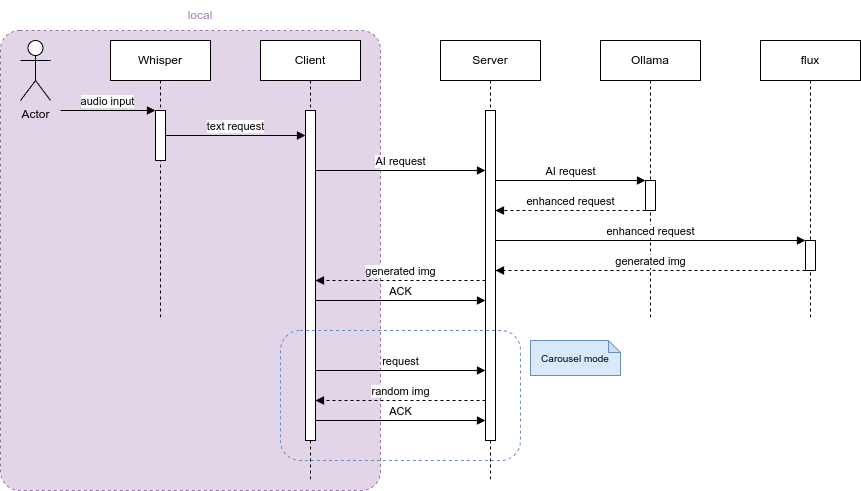
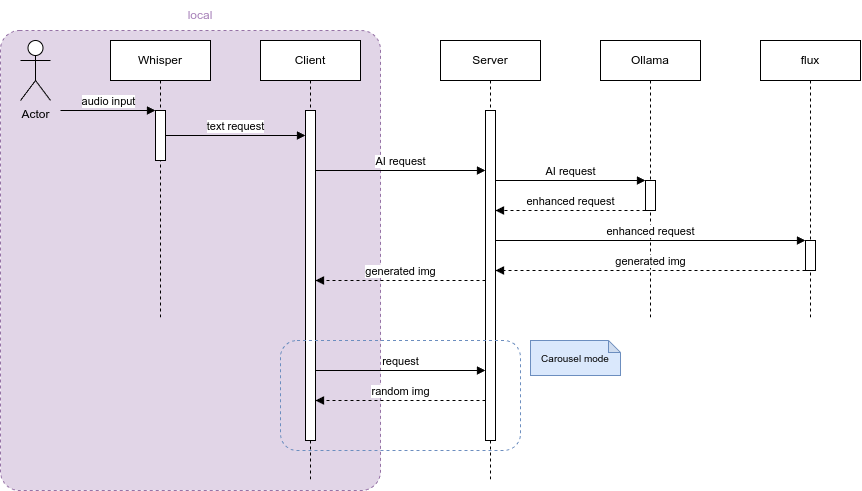
Quartz sync: Feb 20, 2025, 5:29 PM

diff --git a/content/notes/20250220144754-emacs_completion.md b/content/notes/20250220144754-emacs_completion.md
@@ -1,0 +1,35 @@
+---
+title: "emacs completion"
+date: 2025-02-20T00:00:00+01:00
+lastmod: 2025-02-20T00:00:00+01:00
+tags: ["tools", "emacs"]
+draft: false
+---
+
+## Resources {#resources}
+
+<https://codeberg.org/vifon/emacs-config/src/branch/master/emacs.d/lisp/20-completion-engine.el>
+
+<https://systemcrafters.net/live-streams/october-15-2021/>
+
+The vertico module on Doom Emacs contains the following packages:
+
+-   consult
+-   consult-flycheck
+-   embark
+-   embark-consult
+-   marginalia
+-   orderless
+-   vertico
+-   vertico-posframe
+-   wgrep
+
+
+## Tools {#tools}
+
+<https://github.com/oantolin/embark>
+<https://github.com/minad/vertico>
+<https://github.com/minad/consult>
+<https://github.com/oantolin/orderless>
+
+<https://github.com/minad/corfu>

diff --git a/content/notes/20250122174438-generative_ai_picture_display.md b/content/notes/20250122174438-generative_ai_picture_display.md
@@ -1,7 +1,7 @@
 ---
 title: "Generative AI picture display"
 date: 2025-01-22T00:00:00+01:00
-lastmod: 2025-02-19T00:00:00+01:00
+lastmod: 2025-02-20T00:00:00+01:00
 tags: ["projects", "ai"]
 draft: false
 ---
@@ -45,7 +45,7 @@ The project divides into 3 codebases.
 
 #### [frame_server](https://github.com/merlinsoftwaresl/frame_server) {#frame-server}
 
-The server side written in python, it comunicates with the client through a WebSocket to provide images as requested.
+The server side written in python, it provides a REST API for comunication with the client and send images.
 
 
 #### [frame_client](https://github.com/merlinsoftwaresl/frame_client) {#frame-client}